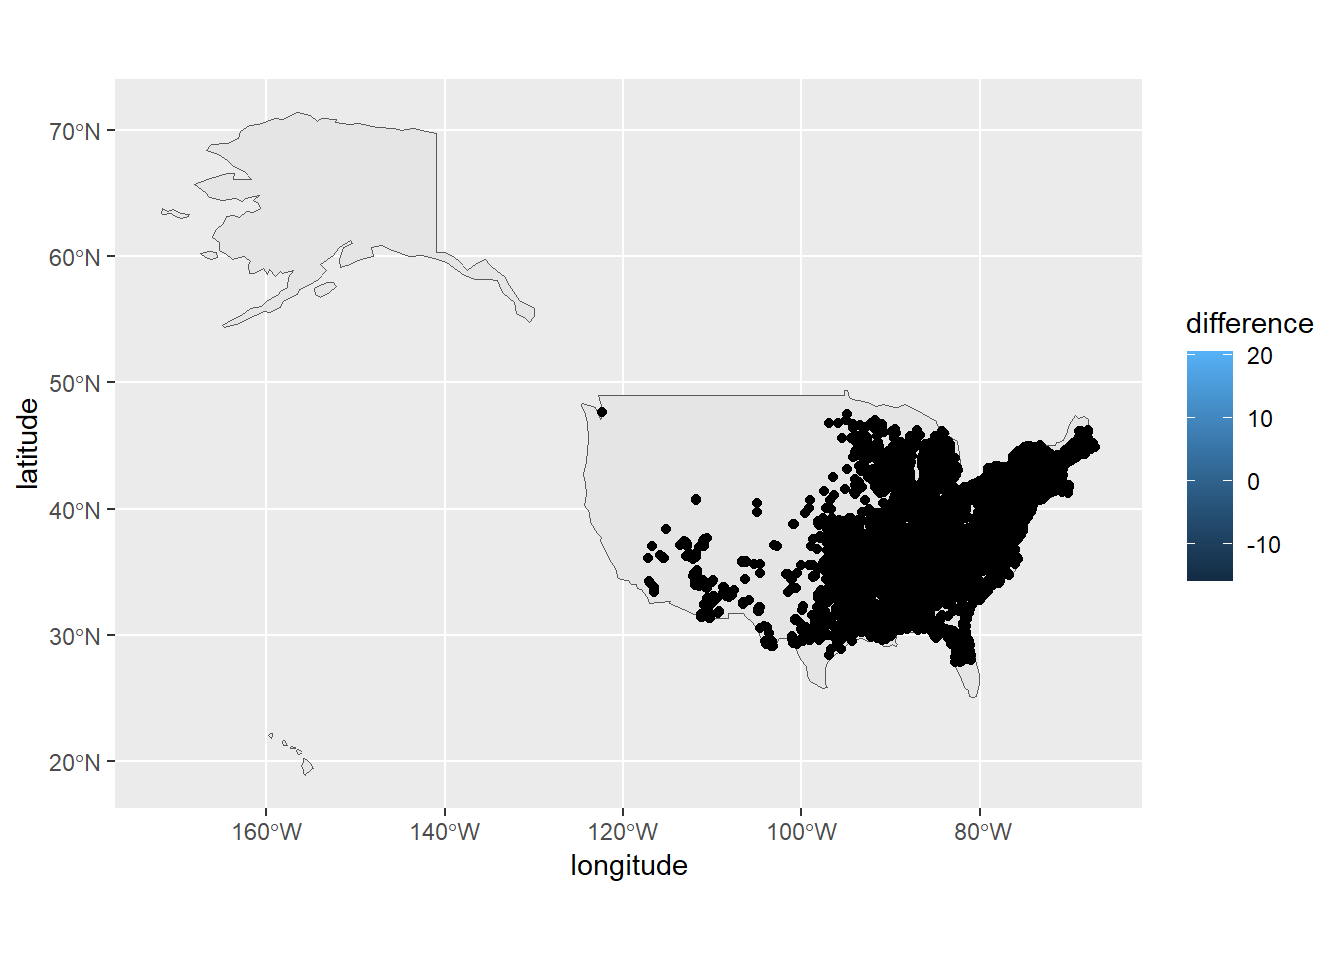
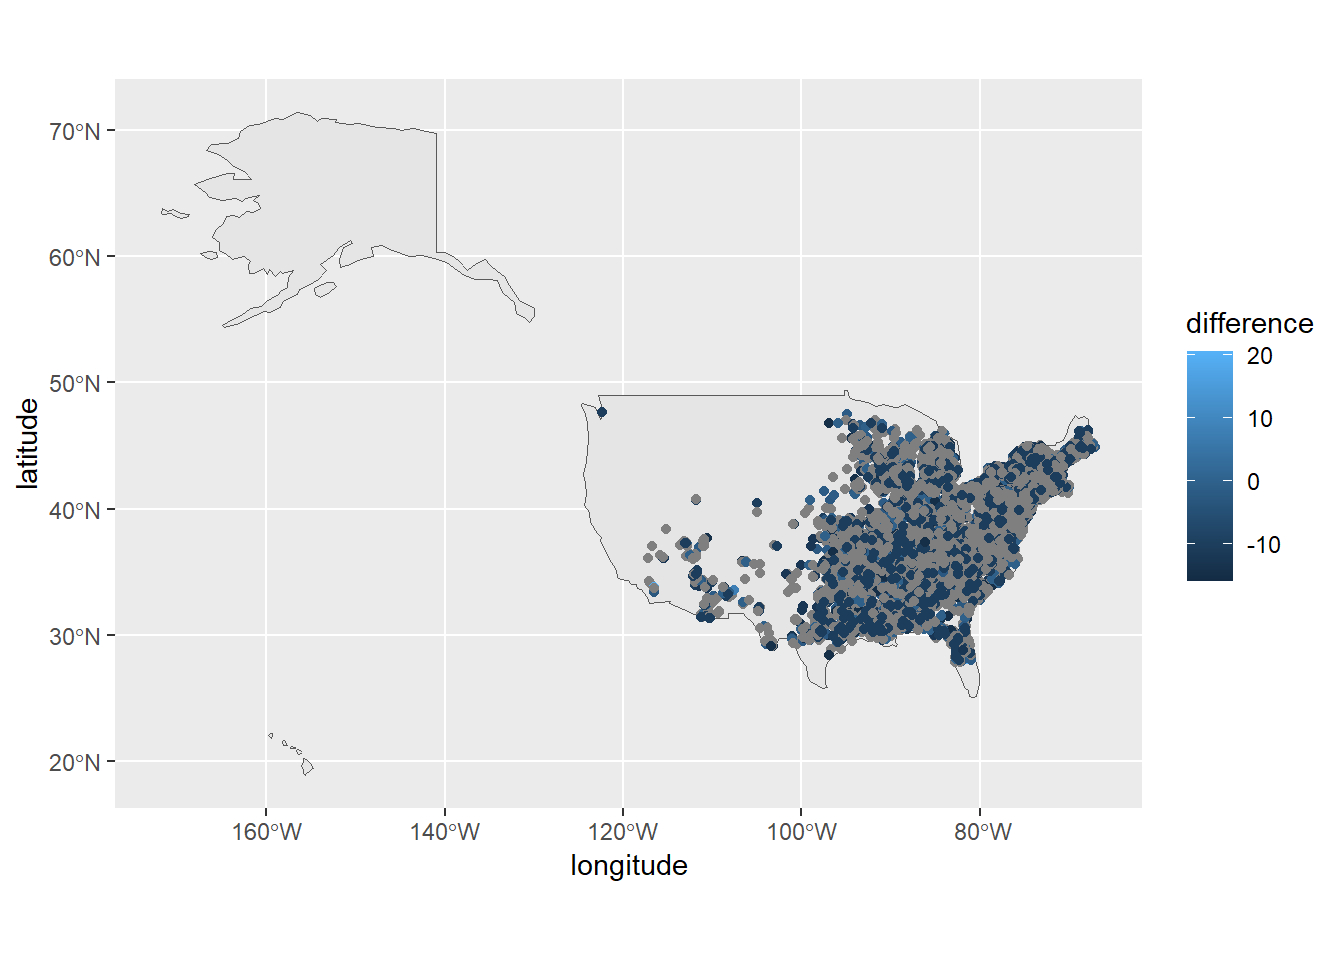
Commit

Changed region(s): [[0.4688, 0.4062, 0.8125, 0.6875]]

diff --git a/docs/index.html b/docs/index.html
@@ -335,7 +335,7 @@ Longitude, Age.Sex, Air.Temp..C., Country, year, year_day)`</code></pre>
 <span id="cb23-2"><a href="#cb23-2" aria-hidden="true" tabindex="-1"></a>  <span class="fu">mutate</span>(<span class="at">rthmean2010 =</span> <span class="fu">ifelse</span>(<span class="fu">is.na</span>(rthmean2010), <span class="fl">200.4848</span>, rthmean2010)) <span class="sc">%&gt;%</span></span>
 <span id="cb23-3"><a href="#cb23-3" aria-hidden="true" tabindex="-1"></a>  <span class="fu">mutate</span>(<span class="at">difference =</span> year_day <span class="sc">-</span> rthmean2010)</span>
 <span id="cb23-4"><a href="#cb23-4" aria-hidden="true" tabindex="-1"></a></span>
-<span id="cb23-5"><a href="#cb23-5" aria-hidden="true" tabindex="-1"></a><span class="fu">ggplot</span>() <span class="sc">+</span> <span class="fu">geom_sf</span>(<span class="at">data =</span> us) <span class="sc">+</span> <span class="fu">geom_point</span>(<span class="at">data =</span> mean_card_fl, <span class="fu">aes</span>(<span class="at">x =</span> longitude, <span class="at">y =</span> latitude, <span class="at">fill =</span> difference))</span></code><button title="Copy to Clipboard" class="code-copy-button"><i class="bi"></i></button></pre></div>
+<span id="cb23-5"><a href="#cb23-5" aria-hidden="true" tabindex="-1"></a><span class="fu">ggplot</span>() <span class="sc">+</span> <span class="fu">geom_sf</span>(<span class="at">data =</span> us) <span class="sc">+</span> <span class="fu">geom_point</span>(<span class="at">data =</span> mean_card_fl, <span class="fu">aes</span>(<span class="at">x =</span> longitude, <span class="at">y =</span> latitude, <span class="at">color =</span> difference))</span></code><button title="Copy to Clipboard" class="code-copy-button"><i class="bi"></i></button></pre></div>
 <div class="cell-output-display">
 <div>
 <figure class="figure">
